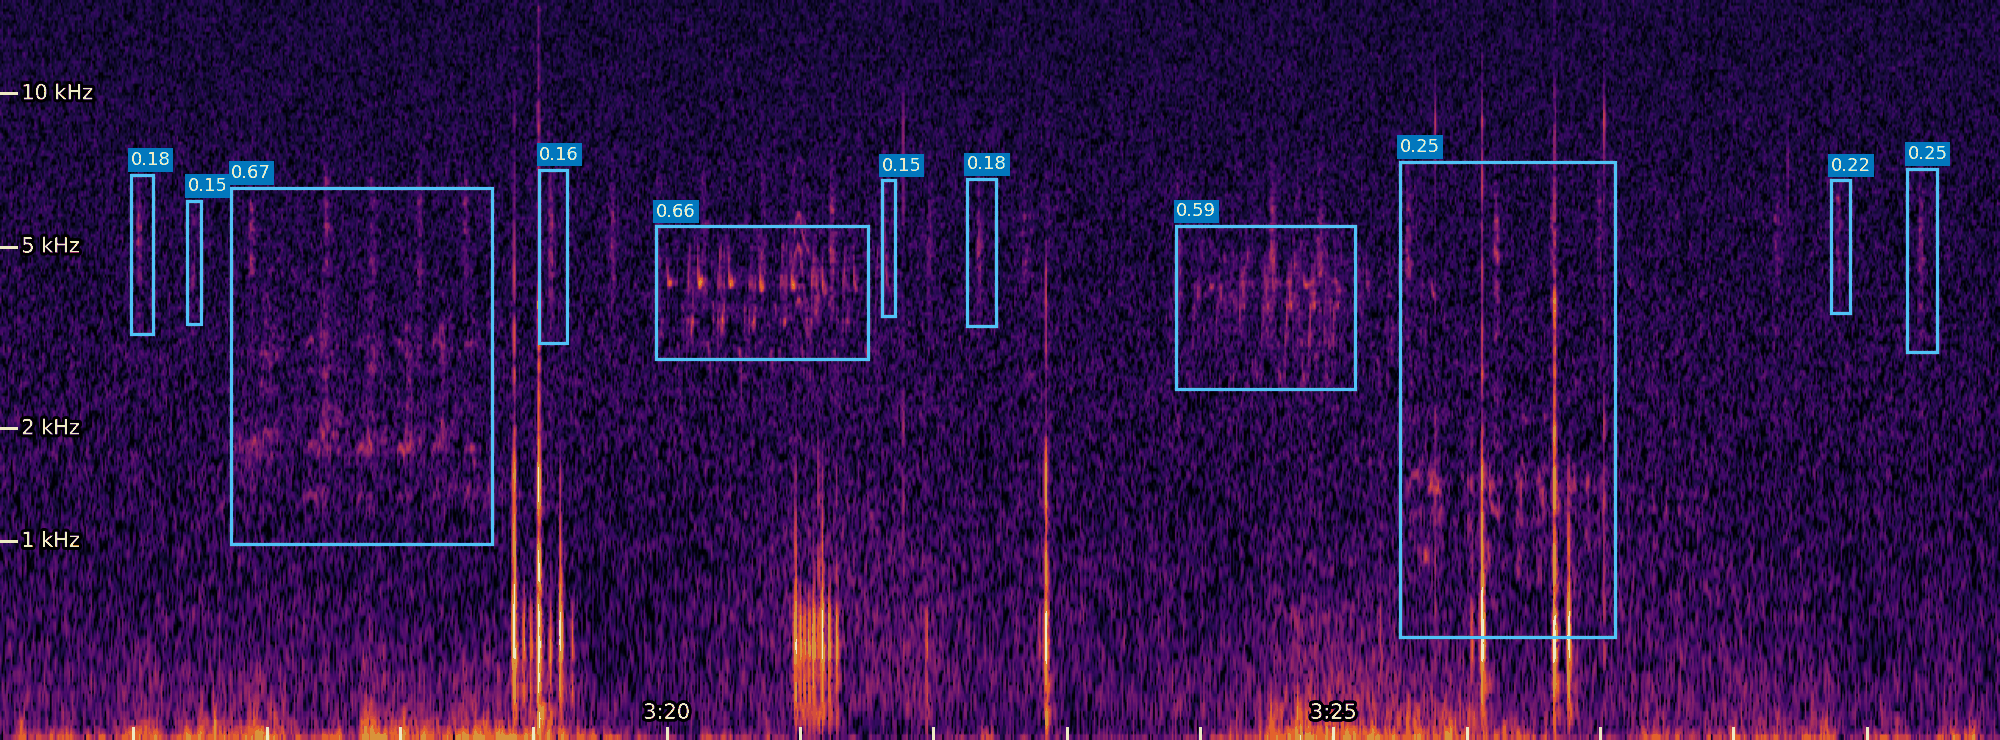
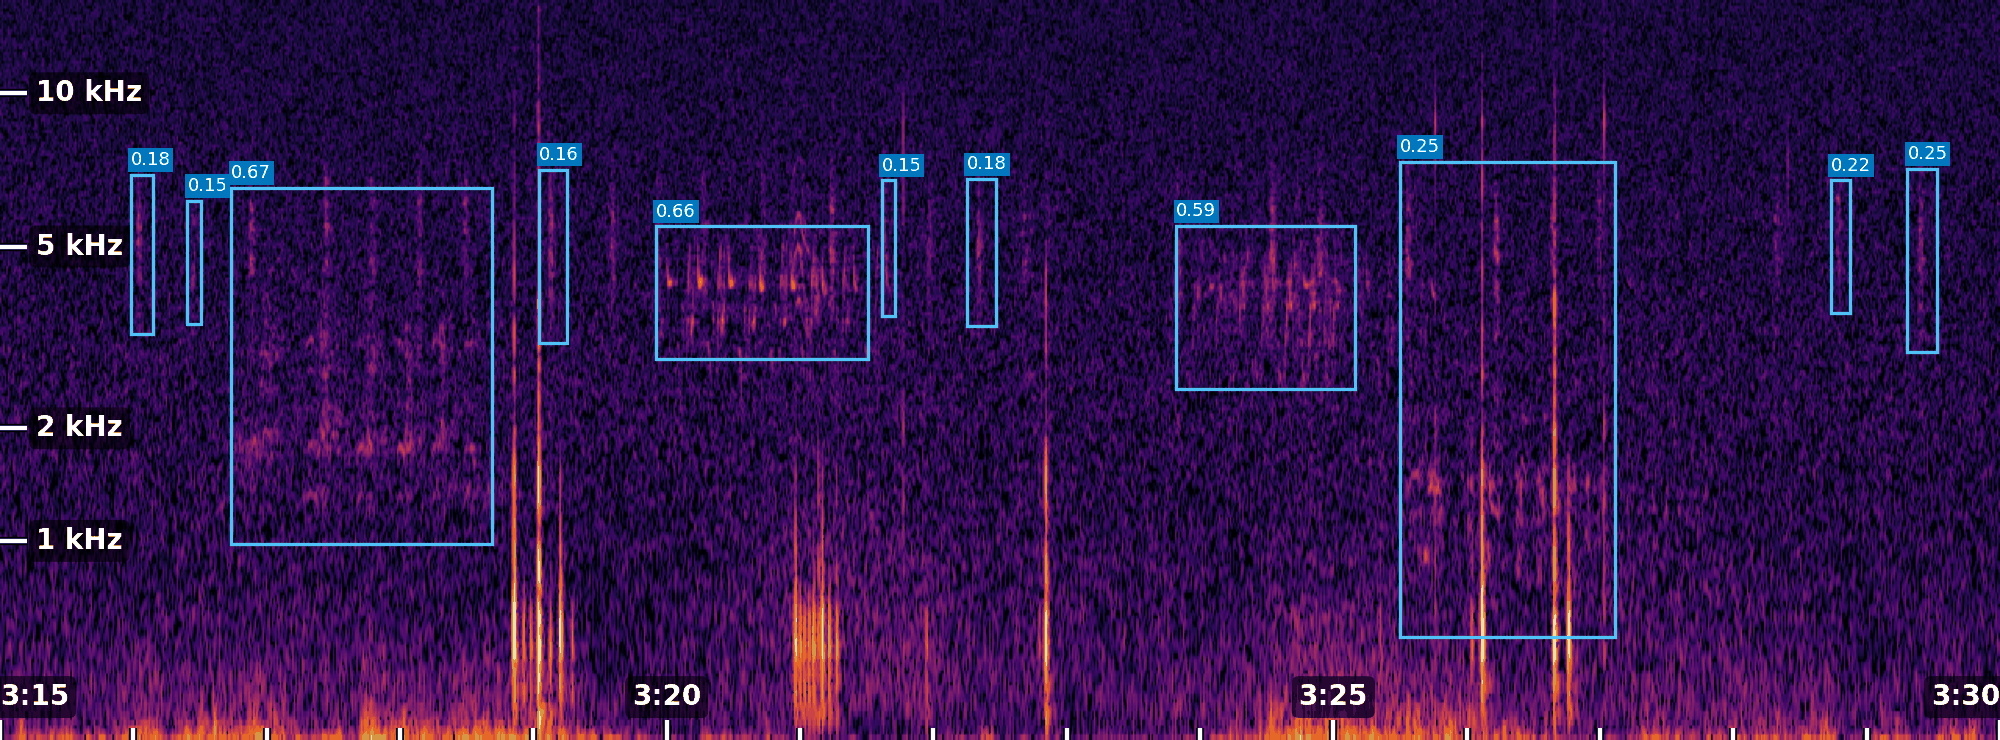
Docs: the script for the home page's example, with clearer axes
scripts/make_example_viz.py makes docs/img/example_viz.png from
tests/test.wav and the Just-Bird weights: it runs the CLI at its
default settings, takes the log-floor features from the pipeline and
draws each frame as the first window that contains it sees it.

The axis labels are larger and bold, on dark plates, so they read on
the bright parts of the spectrogram, and the start and end of the
stretch (3:15, 3:30) are labelled too.

diff --git a/scripts/make_example_viz.py b/scripts/make_example_viz.py
@@ -1,0 +1,151 @@
+# SPDX-FileCopyrightText: 2026 BirdNET-Team
+# SPDX-License-Identifier: MIT
+"""
+Make the example image of the documentation's home page (docs/img/example_viz.png).
+
+It shows 15 s of tests/test.wav as Just-Bird sees it, the log-floor mel spectrogram
+from 50 Hz to 15 kHz, with Just-Bird's boxes at the CLI's default settings and their
+confidence. Frame j of the picture is drawn as the first window that contains it sees
+it: window c = max(0, ceil((j - 251) / 128)), with that window's rolling noise floor,
+as in the demo's log-floor view.
+
+Run it from the repository root with the Just-Bird weights:
+
+    python scripts/make_example_viz.py models/Just-Bird_fp32.pt
+
+Options: --from=195 and --to=210 (seconds), --out=docs/img/example_viz.png.
+The PNG is reduced to a 256-colour palette, which keeps it near 1.3 MB.
+"""
+
+import json
+import math
+import subprocess
+import sys
+import tempfile
+from pathlib import Path
+
+import librosa
+import matplotlib
+import numpy as np
+import soundfile as sf
+from PIL import Image
+
+matplotlib.use("Agg")
+from matplotlib import patheffects  # noqa: E402
+from matplotlib import pyplot as plt  # noqa: E402
+
+ROOT = Path(__file__).resolve().parent.parent
+sys.path.insert(0, str(ROOT / "src"))
+from inference.utils.pcen_inference import (  # noqa: E402
+    compute_pcen_for_inference,
+    get_fft_and_pcen_settings,
+)
+
+AUDIO = ROOT / "tests" / "test.wav"
+CLIP_FRAMES, CLIP_HOP_FRAMES = 252, 128   # a 3 s window, every 1.5 s
+BOX = "#4fc3f7"
+LABEL = "#0277bd"
+
+
+def options(argv):
+    opts = {"from": 195.0, "to": 210.0, "out": str(ROOT / "docs" / "img" / "example_viz.png")}
+    model = None
+    for arg in argv:
+        if arg.startswith("--"):
+            key, _, value = arg[2:].partition("=")
+            if key not in opts:
+                sys.exit(f"Unknown option --{key}")
+            opts[key] = value if key == "out" else float(value)
+        else:
+            model = arg
+    if model is None:
+        sys.exit(__doc__)
+    return model, opts
+
+
+def detections(model):
+    """Just-Bird's boxes in tests/test.wav, from the CLI at its default settings."""
+    with tempfile.TemporaryDirectory() as out:
+        subprocess.run(
+            [sys.executable, str(ROOT / "src" / "inference" / "detect_birds.py"),
+             "--audio", str(AUDIO), "--model", model, "--species-mapping", "Just-Bird",
+             "--output-path", out],
+            check=True, stdout=subprocess.DEVNULL,
+        )
+        result = json.loads((Path(out) / "with_algorithm_metadata.json").read_text())
+    return result["detections"], result["model_config"]
+
+
+def picture(t0, t1):
+    """The log-floor features (0..100) of the frames from t0 to t1, as the model sees them."""
+    settings = get_fft_and_pcen_settings()
+    audio, sr = sf.read(str(AUDIO), dtype="float32")
+    if audio.ndim > 1:
+        audio = audio.mean(axis=1)
+    clips, sr = compute_pcen_for_inference(audio, sr, verbose=False)
+    hop = settings["hop_length"]
+    by_start = {int(round(c["start_time"] * sr)) // hop: c["pcen"] for c in clips}
+    last = max(by_start) + CLIP_FRAMES
+    f0, f1 = int(round(t0 * sr / hop)), min(int(round(t1 * sr / hop)), last)
+    img = np.empty((settings["n_mels"], f1 - f0), np.float32)
+    for j in range(f0, f1):
+        c = max(0, math.ceil((j - (CLIP_FRAMES - 1)) / CLIP_HOP_FRAMES))
+        img[:, j - f0] = by_start[CLIP_HOP_FRAMES * c][:, j - CLIP_HOP_FRAMES * c]
+    return img, (f1 - f0) * hop / sr, settings
+
+
+def main():
+    model, opts = options(sys.argv[1:])
+    t0, t1 = opts["from"], opts["to"]
+    dets, config = detections(model)
+    img, dur, settings = picture(t0, t1)
+    t1 = t0 + dur
+    rows = img.shape[0]
+    mel_lo = librosa.hz_to_mel(settings["fmin"], htk=True)
+    mel_hi = librosa.hz_to_mel(settings["fmax"], htk=True)
+
+    def row(hz):
+        return (librosa.hz_to_mel(hz, htk=True) - mel_lo) / (mel_hi - mel_lo) * rows
+
+    fig = plt.figure(figsize=(10, 3.7), dpi=200)
+    ax = fig.add_axes([0, 0, 1, 1])
+    ax.imshow(img, origin="lower", aspect="auto", cmap="inferno", vmin=0, vmax=100,
+              extent=(t0, t1, 0, rows))
+
+    shown = [d for d in dets if d["time_end"] > t0 and d["time_start"] < t1]
+    for d in shown:
+        y0, y1 = row(d["freq_low_hz"]), row(d["freq_high_hz"])
+        ax.add_patch(plt.Rectangle((d["time_start"], y0), d["time_end"] - d["time_start"], y1 - y0,
+                                   fill=False, ec=BOX, lw=1.2))
+        ax.text(d["time_start"], y1 + 2, f"{d['max_confidence']:.2f}", color="white", fontsize=6.5,
+                va="bottom", ha="left", bbox=dict(boxstyle="square,pad=0.15", fc=LABEL, ec="none"))
+
+    # Axes on the picture: white text on a dark plate, with a black outline on the ticks
+    plate = dict(boxstyle="round,pad=0.25", fc="black", ec="none", alpha=0.6)
+    halo = [patheffects.withStroke(linewidth=3, foreground="black")]
+    tick = dict(color="white", lw=1.6, solid_capstyle="butt", path_effects=halo)
+    for khz in (1, 2, 5, 10):
+        y = row(khz * 1000)
+        ax.plot([t0, t0 + 0.2], [y, y], **tick)
+        ax.text(t0 + 0.27, y, f"{khz} kHz", color="white", fontsize=10, fontweight="bold",
+                va="center", ha="left", bbox=plate)
+    for s in range(math.ceil(t0), math.floor(t1) + 1):
+        ax.plot([s, s], [0, 7 if s % 5 == 0 else 4], **tick)
+        if s % 5 == 0:
+            ha = "left" if s == t0 else "right" if s == t1 else "center"
+            ax.text(s, 10, f"{s // 60}:{s % 60:02d}", color="white", fontsize=10, fontweight="bold",
+                    ha=ha, va="bottom", bbox=plate)
+
+    ax.set_xlim(t0, t1)
+    ax.set_ylim(0, rows)
+    ax.axis("off")
+    with tempfile.NamedTemporaryFile(suffix=".png") as tmp:
+        fig.savefig(tmp.name)
+        rgb = Image.open(tmp.name).convert("RGB")
+    rgb.quantize(colors=256, method=Image.Quantize.MEDIANCUT, dither=Image.Dither.NONE).save(
+        opts["out"], optimize=True)
+    print(f"{opts['out']}: {t0:g}-{t1:g} s, {len(shown)} boxes, model settings {json.dumps(config)}")
+
+
+if __name__ == "__main__":
+    main()
